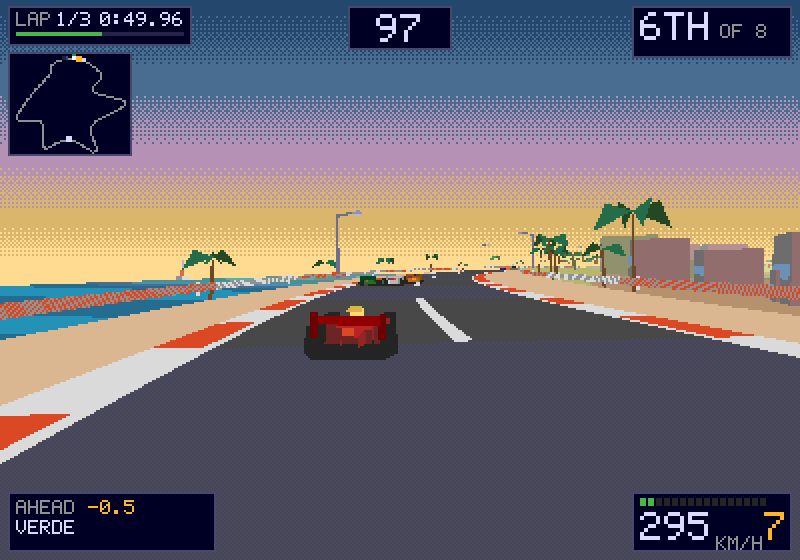
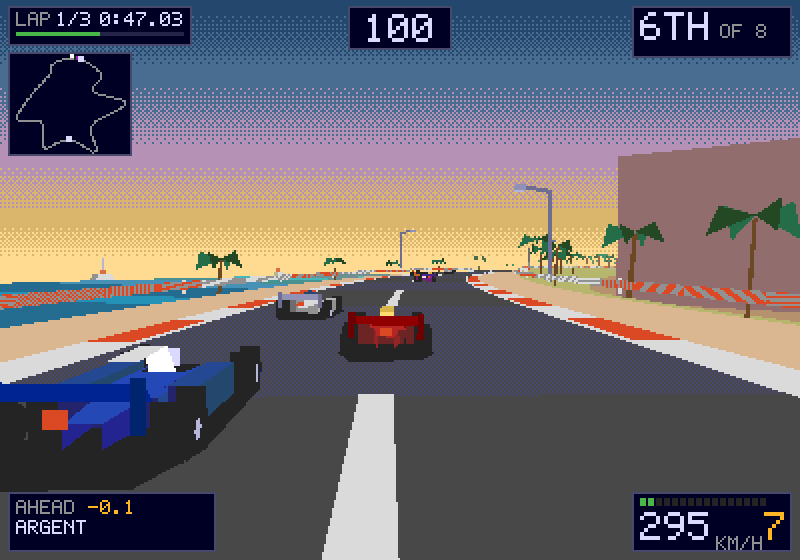
The rivals were losing ten seconds a lap to each other
Their pace was never the problem. Alone on an empty circuit they were always
within a second a lap of a competent drive; put the same eight in a pack and
they lost ten. All of it was self-inflicted, and it was two things.

They defended against anybody within twenty-six metres, on any piece of road.
In a field this close that is always somebody, so all eight of them spent the
whole race off the racing line covering each other while the player drove
round the outside of the lot. Now: close, genuinely quicker, and not in a
corner - a corner is where the line is worth more than the door. Fifteen
metres instead of twenty-six. That alone was seven seconds a lap.

And contact charged speed every tick it lasted rather than once. Three and a
half per cent a frame is twelve per cent a second, so nobody could run
alongside anybody through a corner without both of them losing the race. The
push is a separation now - move them apart by the overlap, cancel the speed
they were closing at - which is what two cars leaning on each other do, and
the speed it costs is charged once. An accumulating sideways acceleration was
also worth a hundred and eighty barrier hits a race on its own.

Then the thing underneath both: they steered at where the car was and not at
where it was going. A corner pushes continuously and a proportional
controller has a standing error against it, so they ran eight per cent of
every lap off the tarmac and into the barrier twice a lap, alone, on an empty
[…]

diff --git a/src/game/sim.js b/src/game/sim.js
@@ -355,16 +355,37 @@ function contacts(state) {
       const ds = a.s - b.s;
       if (Math.abs(ds) > BODY_S || Math.abs(a.x - b.x) > BODY_X) continue;
 
-      // Side by side: they lean on each other and both lose a little.
-      const push = (a.x < b.x ? -1 : 1) * NUDGE;
-      a.vx += push;
-      b.vx -= push;
-      a.speed *= NUDGE_COST;
-      b.speed *= NUDGE_COST;
+      // Side by side: they are moved apart until they are not in the same place,
+      // and the speed they lose is charged once.
+      //
+      // Moved rather than pushed. An acceleration applied every tick they
+      // overlap accumulates: two cars leaning on each other for half a second
+      // come out of it with fifteen metres a second of sideways speed and go
+      // straight into the barriers, which is where a hundred and eighty barrier
+      // hits a race came from. This separates them by the overlap and cancels
+      // the speed they were closing at, which is what two cars leaning on each
+      // other actually do.
+      const gap = a.x - b.x;
+      const dir = gap < 0 ? -1 : 1;
+      const overlap = BODY_X - Math.abs(gap);
+      a.x += dir * overlap * 0.5;
+      b.x -= dir * overlap * 0.5;
+      const leaning = (a.vx - b.vx) * dir;
+      if (leaning < 0) {
+        a.vx -= leaning * 0.5 * dir;
+        b.vx += leaning * 0.5 * dir;
+      }
+      // And a shove, once, so contact is felt rather than merely resolved.
+      if (!a.bumpT && !b.bumpT) {
+        a.vx += dir * NUDGE * 0.35;
+        b.vx -= dir * NUDGE * 0.35;
+      }
 
       if (a.bumpT || b.bumpT) continue;
       a.bumpT = BUMP_COOL;
       b.bumpT = BUMP_COOL;
+      a.speed *= NUDGE_COST;
+      b.speed *= NUDGE_COST;
       state.events.push({ t: 'touch', mine: a === player(state) || b === player(state) });
 
       // Nose to tail is a different thing entirely. Whoever was behind was the
@@ -424,12 +445,18 @@ function think(state, car) {
     const block = inTheWay(state, car);
     if (block) car.line = Math.max(-wide, Math.min(wide, block));
 
-    // And somebody in the mirrors is worth more than either. It moves part of
-    // the way across to cover the side they are coming down - part, so there is
-    // always a way past, and only on the approach, because covering the inside
-    // of a corner you are already in means going off the outside of it.
+    // And somebody in the mirrors is worth more than either - but only when
+    // there is actually a move being made, and only where a move can be made.
+    //
+    // Defending on every straight against everybody within twenty-six metres
+    // cost the field seven seconds a lap, because in a bunched race there is
+    // always somebody there: all eight of them spent the whole afternoon off
+    // the racing line covering each other and the player drove round the
+    // outside of the lot. So: close, genuinely quicker, and not in a corner -
+    // a corner is where the line is worth more than the door.
     const chaser = behind(state, car);
-    if (chaser) {
+    const inCorner = Math.abs(nodeStep(state.route, i, 6).curve) > 0.02;
+    if (chaser && !inCorner && chaser.speed > car.speed + 1.5) {
       const cover = car.line + (chaser.x - car.line) * AI_DEFEND;
       car.line = Math.max(-wide, Math.min(wide, cover));
     }
@@ -448,7 +475,12 @@ function think(state, car) {
     line += car.wrongTo;
   }
 
-  const off = line - car.x;
+  // Steering against where the car is going as well as where it is. Without the
+  // second term it is a proportional controller fighting a corner that pushes
+  // continuously, which leaves a standing error: they ran eight per cent of
+  // every lap off the tarmac and into the barrier twice a lap, alone on an
+  // empty circuit. It is the same anticipation the reference driver uses.
+  const off = (line - car.x) - car.vx * 0.34;
   const want = limit;
   car.ctl = {
     throttle: car.speed < want,

diff --git a/src/constants.js b/src/constants.js
@@ -196,15 +196,17 @@ export const AI_SPREAD = 0.0016;    // per grid slot
 /**
  * How hard a rival will defend.
  *
- * A car with somebody in its mirrors moves across to cover the side they are
- * coming down, but only part of the way and only when it has grip to spare -
- * which means it cannot do it in the middle of a corner, which is where you get
- * past it. Without this they hold their line and an overtake is a matter of
- * having a faster car; with it, it is a matter of putting them somewhere they
- * did not want to be first.
+ * A car with somebody close behind and genuinely coming past moves part of the
+ * way across to cover the side they are on - part, so there is always a way
+ * through, and never in a corner, where the line is worth more than the door.
+ *
+ * The range matters more than the strength. At twenty-six metres, in a field
+ * this close, every car had somebody in its mirrors the whole race and the whole
+ * field drove defensively for three laps: seven seconds a lap slower than the
+ * same cars spread out. Fifteen metres is somebody who is actually there.
  */
-export const AI_DEFEND = 0.62;      // how far across they will come
-export const AI_MIRROR = 26;        // metres of mirror they look into
+export const AI_DEFEND = 0.55;      // how far across they will come
+export const AI_MIRROR = 15;        // metres of mirror they look into
 
 // --- The clock ---------------------------------------------------------------
 
@@ -227,15 +229,14 @@ export const CHECKPOINT_EVERY = 220;
  * What the three settings change.
  *
  * `ai` is the whole difficulty and is a multiplier on the rivals' grip and
- * power. On normal they have three per cent more than you: it is not much, and
- * it is deliberately on the wrong side of one, because a driver who knows the
- * circuit is worth a good deal more than three per cent and the alternative is a
- * field you leave behind on lap one. `grip` is your own, and is the other half
- * of the same dial from the other end.
+ * power. On normal it is one: exactly the car you have, driven properly, which
+ * is a good deal harder than it sounds and was worth three per cent extra only
+ * while they were losing seven seconds a lap to each other. `grip` is your own,
+ * and is the other half of the same dial from the other end.
  */
 export const TIERS = {
   easy: { clock: 1.3, ai: 0.95, grip: 1.06, label: 'Easy' },
-  normal: { clock: 1, ai: 1.03, grip: 1, label: 'Normal' },
+  normal: { clock: 1, ai: 1, grip: 1, label: 'Normal' },
   hard: { clock: 0.86, ai: 1.075, grip: 0.96, label: 'Hard' },
 };
 

diff --git a/tools/simtest.js b/tools/simtest.js
@@ -176,16 +176,38 @@ for (const tier of ['easy', 'normal', 'hard']) {
   }
   const share = Math.round((100 * close) / ticks);
   ok(`somebody is within ninety metres of you ${share}% of the race`, share > 45);
-  // Places gained rather than a finishing position, because a finishing
-  // position is a bar that gets lowered every time the rivals get quicker -
-  // which is the wrong way round. The reference driver is a competent
-  // line-follower and nothing more: it does not plan an overtake, it does not
-  // use the tow on purpose, and it drives every corner the same way three times.
-  // What it should reliably do from the back row is get past some of them.
-  const gained = places.map((p) => 8 - p);
-  const mean = gained.reduce((a, b) => a + b, 0) / gained.length;
-  ok(`and a competent drive gains ${mean.toFixed(1)} places from the back row `
-    + `(finished ${places.join(', ')})`, mean >= 2 && places.every((p) => p <= 7));
+  ok(`and everybody finishes it (${places.join(', ')})`,
+    places.every((p) => p >= 1 && p <= 8));
+}
+
+/**
+ * The rivals lose almost nothing to each other.
+ *
+ * This is the one that matters, and it is the failure this game keeps drifting
+ * back into: they were fine alone and ten seconds a lap slower in a pack,
+ * because every car within twenty-six metres made every other car drive
+ * defensively for the whole race, and because two cars leaning on each other
+ * were charged three and a half per cent of their speed every frame it lasted.
+ * A field that is quick on an empty circuit and slow in its own traffic is a
+ * field you drive away from, however good its numbers look on paper.
+ */
+{
+  const lap = (spread) => {
+    const state = makeRace({ route: 'pass', mode: 'gp', tier: 'normal', seed: 5 });
+    state.laps = 99;
+    state.lights = 0;
+    if (spread) {
+      state.cars.forEach((c, i) => { c.s = -i * (state.route.metres / 8); });
+    }
+    for (let t = 0; t < TICK_RATE * 300; t++) step(state, driveLine(state, 0.98));
+    const best = state.cars.filter((c) => c.kind === 'rival' && c.best).map((c) => c.best);
+    return best.reduce((a, b) => a + b, 0) / Math.max(1, best.length);
+  };
+  const alone = lap(true);
+  const pack = lap(false);
+  ok(`in their own traffic they lose ${((pack - alone) / TICK_RATE).toFixed(1)}s a lap `
+    + `(${formatTime(alone)} spread out, ${formatTime(pack)} in a pack)`,
+    pack - alone < TICK_RATE * 2.5);
 }
 
 // Laps roll over cleanly at the line, on a track that has no beginning.

diff --git a/README.md b/README.md
@@ -131,21 +131,36 @@ always a way past, and only on the approach, because covering the inside of a
 corner it is already in means going off the outside of it. Make them commit, then
 go the other way.
 
-**They are in the same car as you, and on normal they are given three per cent
-more of it.** That is deliberately on the wrong side of one: at ninety-eight per
-cent of your grip they were a field a driver who knows the circuit simply walked
-away from. Three per cent is worth about a second a lap, which over three laps is
-the difference between coming through and not — and it leaves the difficulty to
-be the only thing it should be, which is how well they use the car. No rubber
-band, no catching you up when you crash, no pulling away when you do not. A rival
-that cheated at *braking points* would be one you could not learn, and learning
-where they brake is still the only way past seven of them.
+**They are in exactly the car you are in.** On normal the multiplier is one: no
+extra grip, no extra top end, no rubber band, no catching you up when you crash
+and no pulling away when you do not. That is only a fair fight because they now
+drive it properly, which for a long time they did not — see below. Easy gives
+them five per cent less and you six per cent more; hard gives them seven and a
+half per cent more.
+
+**What made them slow was never their pace, it was their traffic.** Alone on the
+circuit they were always within a second a lap of a competent drive. In a pack of
+eight they were ten seconds a lap slower, and all of it was self-inflicted: every
+car within twenty-six metres of another made it drive defensively, so in a field
+this close all eight spent three laps off the racing line covering each other;
+and two cars leaning on each other were charged three and a half per cent of
+their speed *every frame it lasted*, which is twelve per cent a second, so nobody
+could run alongside anybody through a corner without both of them losing the
+race. They now lose three tenths of a second a lap to each other, and the test
+suite measures exactly that, because it is the failure this game keeps drifting
+back into.
 
 They aim at the apex and nothing cleverer. A proper three-phase racing line —
 outside on entry, apex, outside on exit — was tried and made them two seconds a
 lap slower and put them on the grass a third of the time: the line moves further
 and faster than their steering can follow, and a car sawing at a line it cannot
 hold is slower than a car holding a worse one.
+
+What they did need was to steer at where the car is *going* as well as at where
+it is. A corner pushes continuously, and a controller that only looks at the
+error has a standing one: they spent eight per cent of every lap off the tarmac
+and hit the barrier twice a lap, alone, on an empty circuit. One term for the
+lateral velocity took that to a third of a per cent and three hundredths.
 
 **And they stay in touch with each other.** The field is spread by about one per
 cent of pace from pole to the back row, end to end. That number is doing more for
